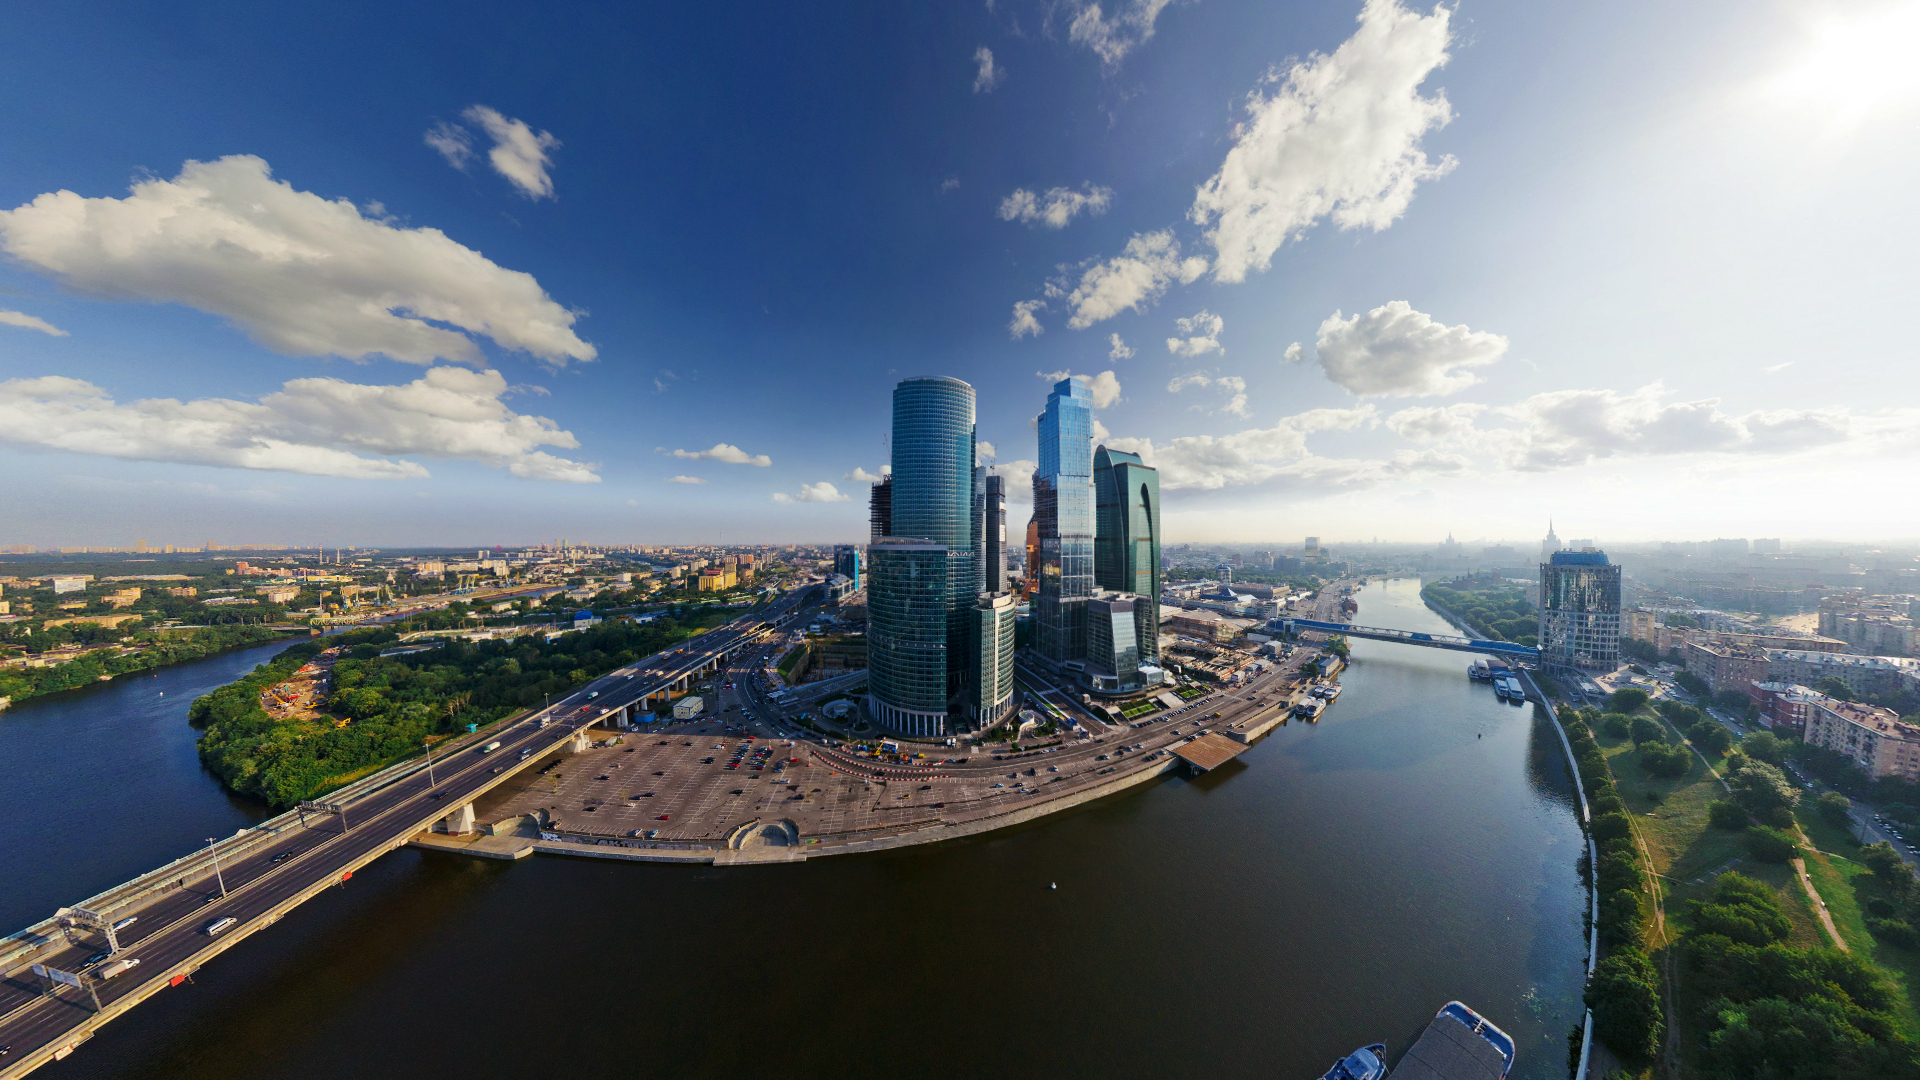
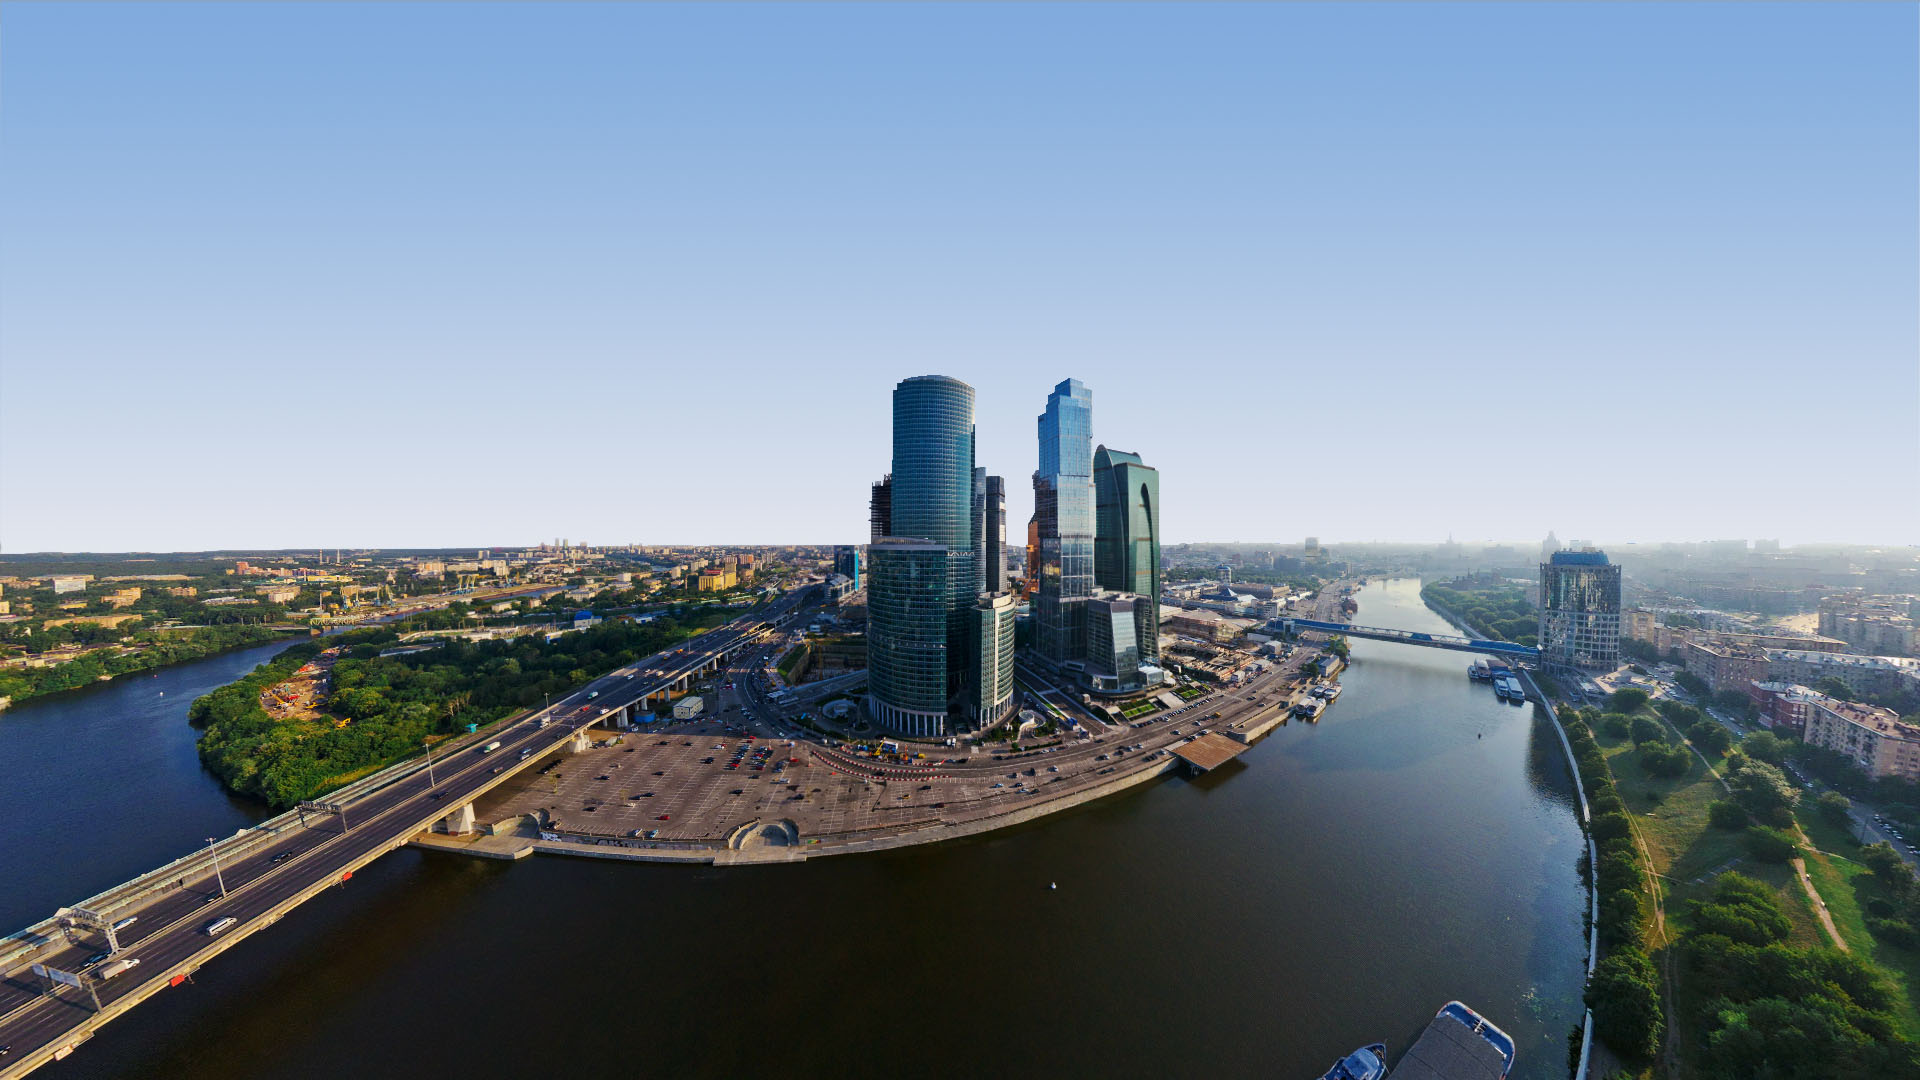
social ver 2

diff --git a/css/styles.css b/css/styles.css
@@ -115,7 +115,7 @@ ul, ol {
 
 /* Home Style */
 header {
-	background: url(../img/header-bg.jpg) no-repeat top center;
+	background: url(../img/header-bg2.jpg) no-repeat top center;
 	background-size: cover;
 	color: #cfcfcf;
 	position: relative;
@@ -123,7 +123,7 @@ header {
 }
 
 .slogan{
-	color: #ff9900;
+	color: #660000;
     font-size: 18px;
     font-style: italic;
     margin-top: 50px;
@@ -136,10 +136,10 @@ header {
 	font-size: 23px;
     margin-left: 8%;
 	position: relative;
-	padding-top: 120px;
+	padding-top: 100px;
 	padding-right: 0;
 	padding-left: 0;
-	padding-bottom: 420px;
+	padding-bottom: 440px;
     text-align: left;
 }
 
@@ -288,38 +288,34 @@ li {
 }
 
 /* Social Section */
-/*#social-section {
-	padding: 30px 0;
-	background-color: #000033;
-}*/
-
-#social-section .social {
+ .social {
 	text-align: center;
 }
 
-#social-section .social ul li {
+.social ul li {
 	display: inline-block;
 	margin: 0 20px;
 }
-#social-section .social i.fa {
+.social i.fa {
 	font-size: 30px;
 	padding: 4px 5px;
 	color: #f4f5f6;
 	transition: all 0.5s;
 }
-#social-section .social i.fa:hover { /*цвет по умолчанию*/
-	color: #ffcc66;
-}
-#social-section .social i.fa-vk:hover {
-	color: #4c75a3;
+
+.social-ico img{
+    display: inline-block;
+    width: 46px;
+    height: 46px;
+    margin-left: 22px;
 }
 
-#social-section .social i.fa-facebook:hover {
-	color: #3b5998;
+.vk-ico img{
+    margin-left: 0;
 }
 
-#social-section .social i.fa-linkedin:hover {
-	color: #3b5998;
+.social-ico img:hover {
+   opacity: 0.7;
 }
 
 /* Footer */

diff --git a/index.html b/index.html
@@ -226,15 +226,12 @@
     </div>
      <div class="col-md-4"></div>
       <div class="col-md-4">
-      <div id="social-section">
 	      <div class="social">
 		      <p>Мы в социальных сетях:</p>
 		      <div class="space"></div>
-			      <ul>
-			        <li><a href="#"><i class="fa fa-vk"></i></a></li>
-			        <li><a href="#"><i class="fa fa-facebook"></i></a></li>
-			        <li><a href="#"><i class="fa fa-linkedin"></i></a></li>
-			      </ul>
+		      <a href="#" target="_blank" class="social-ico vk-ico"><img src="img/social-icons/vk.png"></a>
+		      <a href="#" target="_blank" class="social-ico fb-ico"><img src="img/social-icons/fb.png"></a>
+		      <a href="#" target="_blank" class="social-ico linkedin-ico"><img src="img/social-icons/linkedin.png"></a>
 	      </div>
     </div>
       </div>
@@ -242,17 +239,7 @@
    
   </div>
 </div>
-<!-- <div id="social-section">
-  <div class="container">
-    <div class="social">
-      <ul>
-        <li><a href="#"><i class="fa fa-vk"></i></a></li>
-        <li><a href="#"><i class="fa fa-facebook"></i></a></li>
-        <li><a href="#"><i class="fa fa-linkedin"></i></a></li>
-      </ul>
-    </div>
-  </div>
-</div> -->
+
 <div id="footer">
   <div class="container">
     <p>Copyright &copy; 2015. Design by <a href="#" rel="nofollow">Nadezhda Dyakova</a></p>
